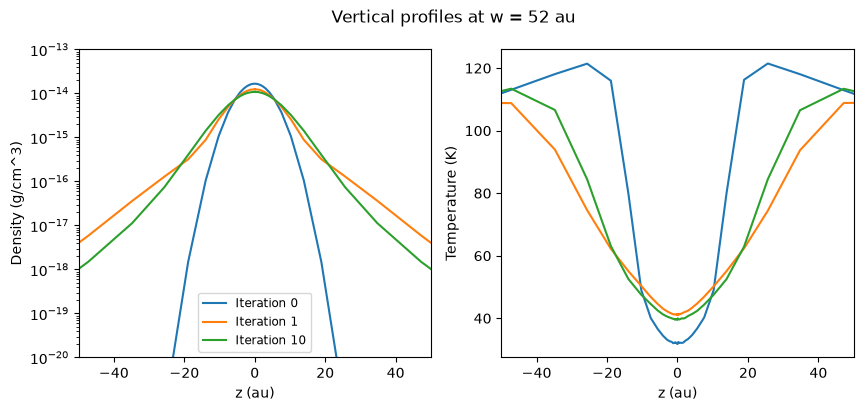
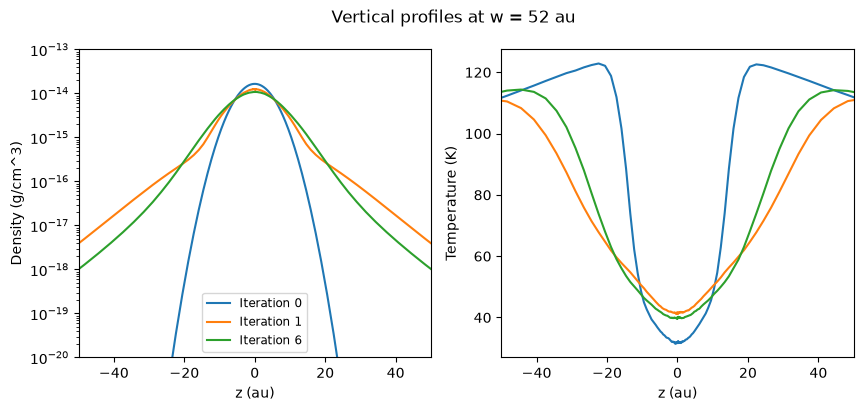
Use three times more vertical cells in the hydrostatic equilibrium tutorial so that the vertical profiles are smooth, and run it with MPI on four processes for six iterations.

diff --git a/docs/tutorials/scripts/hseq_setup.py b/docs/tutorials/scripts/hseq_setup.py
@@ -23,8 +23,10 @@ d.r_0 = 100. * au
 d.h_0 = 10. * au
 d.dust = 'kmh_lite.hdf5'
 
-# Set up a cylindrical polar grid
-m.set_cylindrical_polar_grid_auto(100, 100, 1)
+# Set up a cylindrical polar grid. The second argument is the number of cells
+# in the vertical (z) direction, which needs to be large enough to resolve the
+# vertical density profiles that are computed for the hydrostatic equilibrium
+m.set_cylindrical_polar_grid_auto(100, 300, 1)
 
 # Set up the temperature calculation, using the modified random walk and the
 # partial diffusion approximation to speed up the calculation in the optically
@@ -34,5 +36,8 @@ m.set_n_photons(initial=1000000, imaging=0)
 m.set_mrw(True)
 m.set_pda(True)
 
-# Iterate the radiative transfer and the vertical density structure 10 times
-run_with_vertical_hseq('hseq', m, n_iter=10, overwrite=True)
+# Iterate the radiative transfer and the vertical density structure 6 times,
+# running each model in parallel with MPI on 4 processes (if Hyperion was not
+# compiled with MPI, remove the mpi and n_processes arguments)
+run_with_vertical_hseq('hseq', m, n_iter=6, overwrite=True,
+                       mpi=True, n_processes=4)

diff --git a/docs/tutorials/howto_hydrostatic_equilibrium.rst b/docs/tutorials/howto_hydrostatic_equilibrium.rst
@@ -37,6 +37,12 @@ calling ``write`` and ``run`` directly:
           same directory as the script above (**disclaimer**: do not use this
           dust file outside of these tutorials!).
 
+Since the density structure is recomputed separately in each vertical column
+of cells, the grid should have enough cells in the vertical direction to
+resolve the vertical density profiles. This is set by the second argument of
+:meth:`~hyperion.model.AnalyticalYSOModel.set_cylindrical_polar_grid_auto`,
+which is set to 300 here.
+
 The first argument of :func:`~hyperion.model.helpers.run_with_vertical_hseq`
 is a prefix for the files written out. The model is first written out and run
 with the initial (analytical) density structure, as ``hseq_00000.rtin`` and
@@ -46,9 +52,11 @@ structure, and the resulting model is written out and run as
 ``hseq_00001.rtin`` and ``hseq_00001.rtout``, ``hseq_00002.rtin`` and
 ``hseq_00002.rtout``, and so on. The last output file contains the final
 model. As for :meth:`~hyperion.model.Model.run`, you can use ``mpi=True`` and
-``n_processes=`` to run each model in parallel, and ``logfile=True`` writes
-the output of each run to a log file (``hseq_00000.log``, etc.) instead of to
-the terminal.
+``n_processes=`` to run each model in parallel, as is done above with four
+processes (this requires Hyperion to have been compiled with MPI; otherwise,
+remove these two arguments to run in serial mode), and ``logfile=True``
+writes the output of each run to a log file (``hseq_00000.log``, etc.)
+instead of to the terminal.
 
 When recomputing the density structure, the following assumptions are made:
 
@@ -87,20 +95,16 @@ which gives:
 
 and prints out::
 
-    Fraction of mass moved in iteration 1: 0.279
-    Fraction of mass moved in iteration 2: 0.147
-    Fraction of mass moved in iteration 3: 0.023
-    Fraction of mass moved in iteration 4: 0.005
+    Fraction of mass moved in iteration 1: 0.274
+    Fraction of mass moved in iteration 2: 0.151
+    Fraction of mass moved in iteration 3: 0.025
+    Fraction of mass moved in iteration 4: 0.006
     Fraction of mass moved in iteration 5: 0.005
     Fraction of mass moved in iteration 6: 0.005
-    Fraction of mass moved in iteration 7: 0.004
-    Fraction of mass moved in iteration 8: 0.005
-    Fraction of mass moved in iteration 9: 0.004
-    Fraction of mass moved in iteration 10: 0.005
 
 In this case, the density structure has converged after about four
 iterations: the remaining changes of around 0.5% are due to the Monte-Carlo
 noise in the temperatures, and can be reduced by using more photons. If the
 density structure has not converged, you can run more iterations.
 
-This model takes about 25 minutes to run in serial mode.
+This model takes about 9 minutes to run with four MPI processes.
